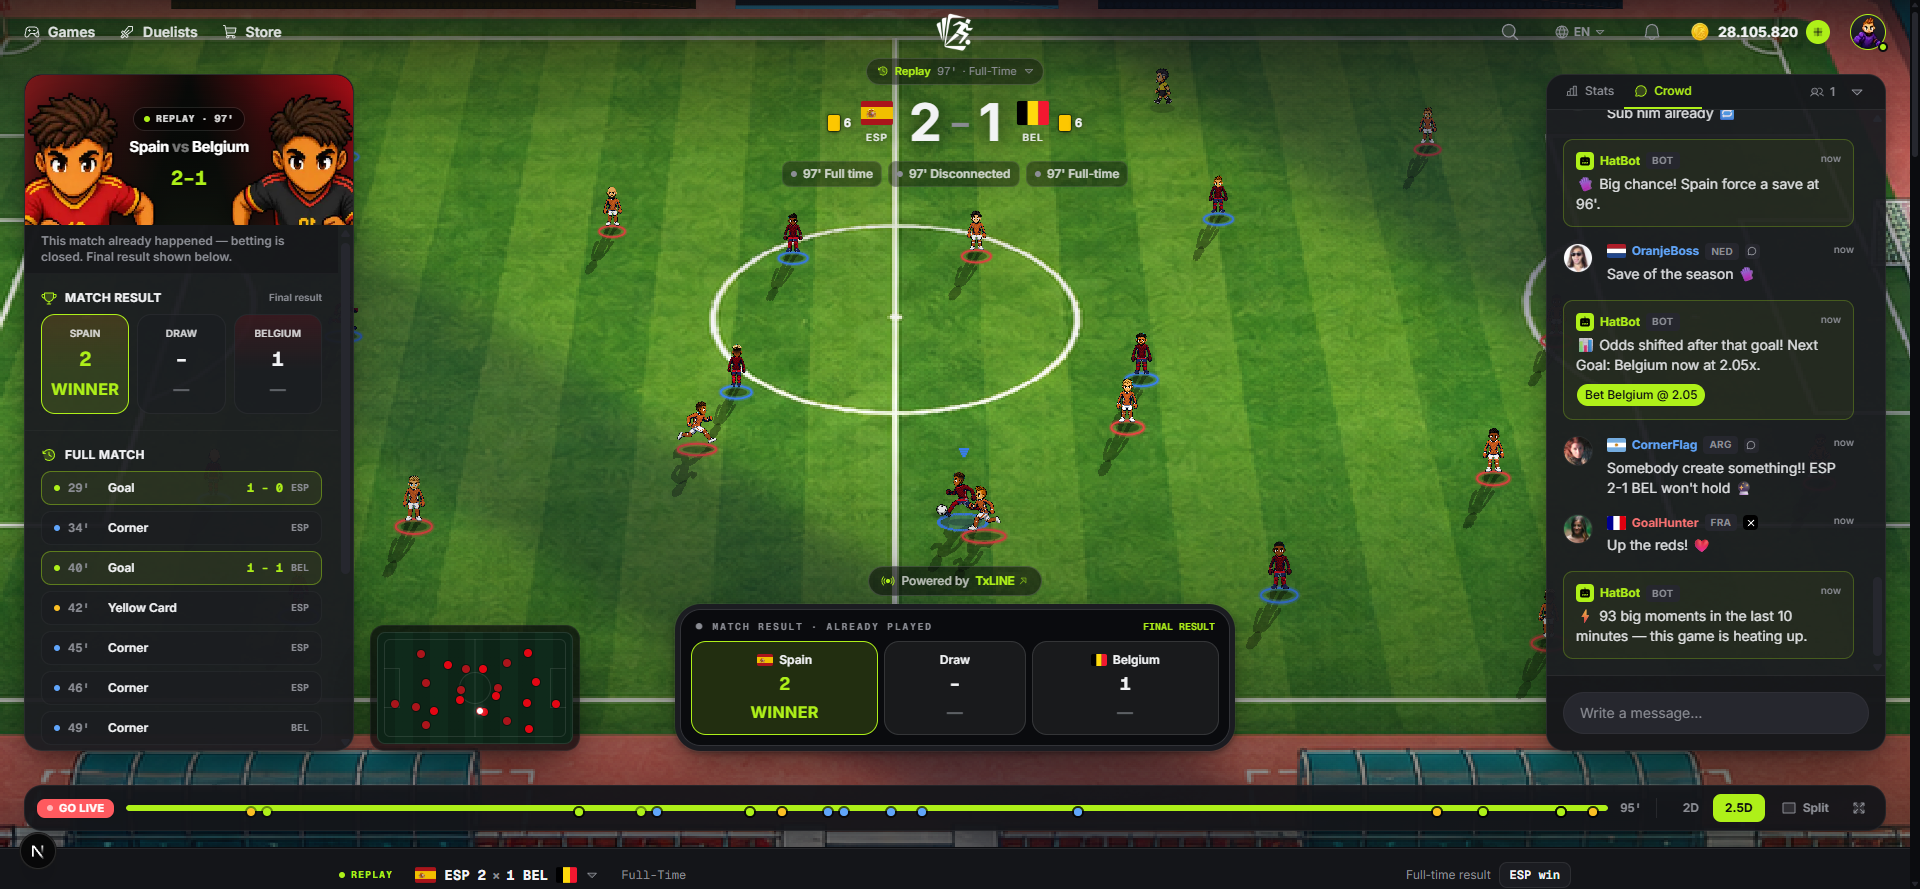
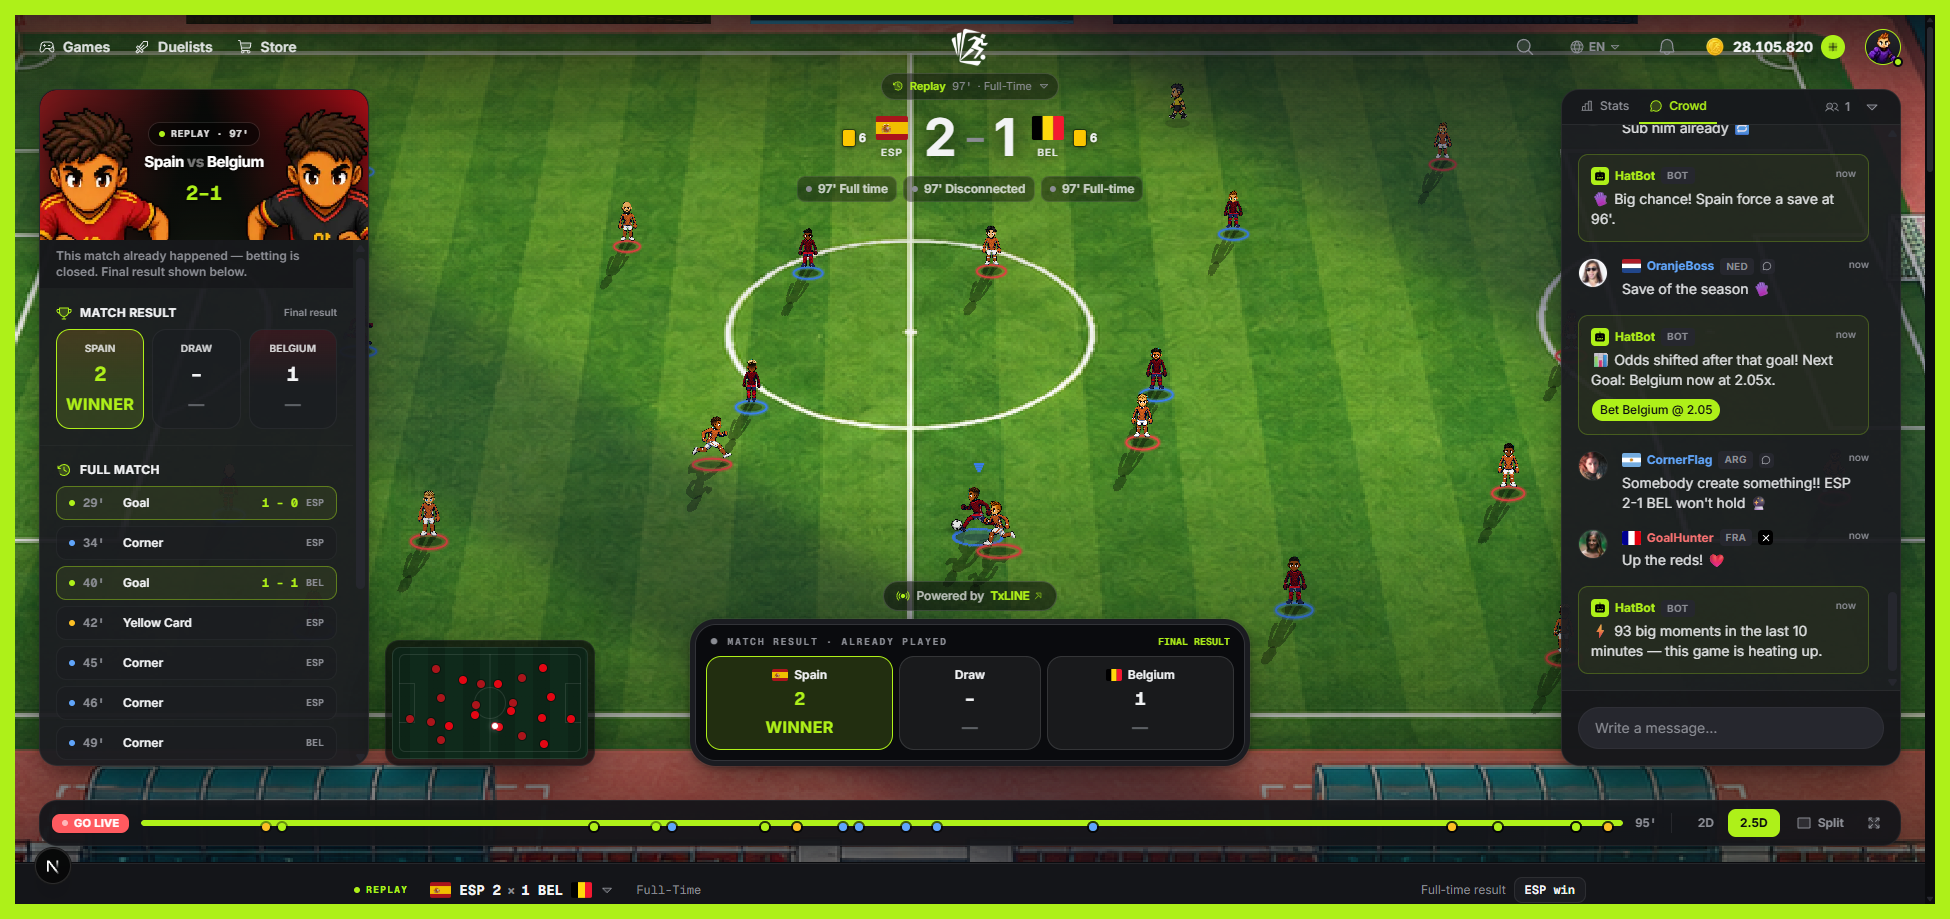
Add onboarding video files for cards and live mode

diff --git a/front/src/components/intro/intro-dialog.tsx b/front/src/components/intro/intro-dialog.tsx
@@ -1,10 +1,10 @@
 'use client';
 
-import { useState, type ReactNode } from 'react';
+import { useEffect, useState, type ReactNode } from 'react';
 
 import { Dialog, DialogContent, DialogTitle, DialogDescription } from '@/components/ui/dialog';
 import { Button } from '@/components/ui/button';
-import { ArrowRight, ArrowLeft } from '@/components/common/icons';
+import { ArrowRight, ArrowLeft, CircleNotch } from '@/components/common/icons';
 import { useT } from '@/i18n/i18n-provider';
 import { cn } from '@/lib/utils';
 import { IntroStep, INTRO_ORDER } from '@/enums/intro-step.enum';
@@ -18,24 +18,22 @@ type Key = DotPath<Dictionary>;
 
 /** Typed i18n keys per step so `useT()` stays type-checked (all 4 locales must define them). */
 const COPY: Record<IntroStep, { headline: Key; body: Key }> = {
-  [IntroStep.Welcome]: { headline: 'intro.steps.welcome.headline', body: 'intro.steps.welcome.body' },
   [IntroStep.Live]: { headline: 'intro.steps.live.headline', body: 'intro.steps.live.body' },
   [IntroStep.Fantasy]: { headline: 'intro.steps.fantasy.headline', body: 'intro.steps.fantasy.body' },
+  [IntroStep.Cards]: { headline: 'intro.steps.cards.headline', body: 'intro.steps.cards.body' },
 };
 
-/** Segmented progress bar — filled up to the active step. */
-function Progress({ index }: { index: number }) {
+/** Responsive segmented progress — each bar fills; the active one fills over the hold delay. */
+function Progress({ index, fill }: { index: number; fill: number }) {
   return (
-    <div className="flex items-center gap-1.5">
+    <div className="flex flex-1 items-center gap-2">
       {INTRO_ORDER.map((_, i) => (
-        <span
-          key={i}
-          className={cn(
-            'h-1 rounded-full transition-all duration-500 ease-soft',
-            i <= index ? 'bg-neon' : 'bg-surface-3',
-            i === index ? 'w-8' : 'w-5',
-          )}
-        />
+        <div key={i} className="h-1.5 flex-1 overflow-hidden rounded-full bg-surface-3">
+          <div
+            className="h-full rounded-full bg-neon"
+            style={{ width: `${(i < index ? 1 : i === index ? fill : 0) * 100}%`, transition: 'width 90ms linear' }}
+          />
+        </div>
       ))}
     </div>
   );
@@ -47,6 +45,7 @@ function Progress({ index }: { index: number }) {
  */
 function VideoStage({ content, fallback }: { content: IntroStepContent; fallback?: ReactNode }) {
   const [failed, setFailed] = useState(false);
+  const [ready, setReady] = useState(false);
   const Icon = content.icon;
 
   if (failed) {
@@ -65,18 +64,28 @@ function VideoStage({ content, fallback }: { content: IntroStepContent; fallback
   }
 
   return (
-    <video
-      key={content.videoSrc}
-      autoPlay
-      muted
-      loop
-      playsInline
-      poster={content.poster}
-      onError={() => setFailed(true)}
-      className="h-full w-full object-cover"
-    >
-      <source src={content.videoSrc} type="video/mp4" />
-    </video>
+    <>
+      <video
+        key={content.videoSrc}
+        autoPlay
+        muted
+        loop
+        playsInline
+        preload="auto"
+        poster={content.poster}
+        onError={() => setFailed(true)}
+        onLoadedData={() => setReady(true)}
+        onCanPlay={() => setReady(true)}
+        className="h-full w-full object-cover"
+      >
+        <source src={content.videoSrc} type="video/mp4" />
+      </video>
+      {!ready && (
+        <div className="absolute inset-0 grid place-items-center bg-surface-2">
+          <CircleNotch className="size-8 animate-spin text-neon" />
+        </div>
+      )}
+    </>
   );
 }
 
@@ -99,6 +108,39 @@ export function IntroDialog() {
   const copy = COPY[step];
   const Icon = content.icon;
 
+  // Hold gate: the active step's progress bar fills over HOLD_MS before "Next" unlocks — so the
+  // user actually watches each step. Steps already seen unlock instantly on revisit (Back → Next).
+  const HOLD_MS = 2000;
+  const [completed, setCompleted] = useState<Set<number>>(() => new Set());
+  const [fill, setFill] = useState(0);
+
+  useEffect(() => {
+    if (!open) return;
+    if (completed.has(index)) {
+      setFill(1);
+      return;
+    }
+    setFill(0);
+    const start = performance.now();
+    let raf = 0;
+    const tick = (now: number) => {
+      const t = Math.min(1, (now - start) / HOLD_MS);
+      setFill(t);
+      if (t >= 1) {
+        setCompleted((prev) => new Set(prev).add(index));
+        return;
+      }
+      raf = requestAnimationFrame(tick);
+    };
+    raf = requestAnimationFrame(tick);
+    return () => cancelAnimationFrame(raf);
+  }, [index, completed, open]);
+
+  const canAdvance = completed.has(index) || fill >= 1;
+
+  // Warm the next step's clip during the current step's hold, so advancing is instant.
+  const nextSrc = index < INTRO_ORDER.length - 1 ? INTRO_STEPS[index + 1]?.videoSrc : undefined;
+
   return (
     <Dialog open={open} onOpenChange={() => {}}>
       <DialogContent
@@ -110,15 +152,15 @@ export function IntroDialog() {
           <VideoStage
             key={step}
             content={content}
-            fallback={step === IntroStep.Fantasy ? <IntroFantasyAnimation /> : undefined}
+            fallback={step === IntroStep.Cards ? <IntroFantasyAnimation /> : undefined}
           />
         </div>
 
         {/* Content below — direct: progress, headline, one line of body, nav */}
         <div className="flex min-h-0 flex-1 flex-col gap-5 overflow-y-auto p-6 sm:p-7">
-          <div className="flex items-center justify-between">
-            <Progress index={index} />
-            <span className="text-micro font-bold tabular-nums text-muted-foreground">
+          <div className="flex items-center gap-3">
+            <Progress index={index} fill={fill} />
+            <span className="shrink-0 text-micro font-bold tabular-nums text-muted-foreground">
               {String(index + 1).padStart(2, '0')} / {String(INTRO_ORDER.length).padStart(2, '0')}
             </span>
           </div>
@@ -156,6 +198,7 @@ export function IntroDialog() {
               shape="pill"
               size="lg"
               onClick={isLast ? close : next}
+              disabled={!canAdvance}
               data-icon="inline-end"
               className="min-w-[9.5rem] font-semibold"
             >
@@ -164,6 +207,19 @@ export function IntroDialog() {
             </Button>
           </div>
         </div>
+
+        {nextSrc && (
+          <video
+            key={nextSrc}
+            muted
+            preload="auto"
+            playsInline
+            aria-hidden
+            className="pointer-events-none absolute h-px w-px opacity-0"
+          >
+            <source src={nextSrc} type="video/mp4" />
+          </video>
+        )}
       </DialogContent>
     </Dialog>
   );

diff --git a/front/src/components/intro/intro-content.ts b/front/src/components/intro/intro-content.ts
@@ -1,23 +1,24 @@
 import type { ComponentType } from 'react';
 
-import { Trophy, Lightning, Cards, type IconProps } from '@/components/common/icons';
+import { Broadcast, Cards, TrendUp, type IconProps } from '@/components/common/icons';
 import { IntroStep } from '@/enums/intro-step.enum';
 
 export interface IntroStepContent {
   step: IntroStep;
   icon: ComponentType<IconProps>;
-  /** Autoplayed clip for the step (user-provided; the dialog shows a placeholder until it exists). */
+  /** Autoplayed clip for the step. The dialog shows a placeholder/fallback until it exists. */
   videoSrc: string;
   /** Still shown before the clip plays / while it loads. */
   poster?: string;
 }
 
 /**
- * Per-step media. Drop the clips into `public/onboarding/` — the dialog degrades to a branded
- * placeholder when a file is missing, so the tour is usable before the videos are recorded.
+ * Per-step media (in `public/onboarding/`). Order: Live → Fantasy → Cards. The Cards step (real form
+ * from matches buffing/nerfing your cards) uses the Remotion-rendered `cards.mp4`, and falls back to
+ * the coded card animation if the file is missing.
  */
 export const INTRO_STEPS: IntroStepContent[] = [
-  { step: IntroStep.Welcome, icon: Trophy, videoSrc: '/onboarding/welcome.mp4', poster: '/onboarding/welcome-poster.webp' },
-  { step: IntroStep.Live, icon: Lightning, videoSrc: '/onboarding/live.mp4', poster: '/onboarding/live-poster.webp' },
-  { step: IntroStep.Fantasy, icon: Cards, videoSrc: '/onboarding/fantasy.mp4', poster: '/onboarding/fantasy-poster.webp' },
+  { step: IntroStep.Live, icon: Broadcast, videoSrc: '/onboarding/live-mode.mp4' },
+  { step: IntroStep.Fantasy, icon: Cards, videoSrc: '/onboarding/fantasy.mp4' },
+  { step: IntroStep.Cards, icon: TrendUp, videoSrc: '/onboarding/cards.mp4' },
 ];

diff --git a/front/src/enums/intro-step.enum.ts b/front/src/enums/intro-step.enum.ts
@@ -1,13 +1,12 @@
 /**
- * Steps of the judge-facing intro tour (opened by `?onboarding=true`). Distinct from the
- * post-login product onboarding (`onboarding-step.enum.ts`, Pack→Squad→Done) — this one is a
- * marketing walkthrough of what Hatrick is.
+ * Steps of the judge-facing intro tour (opened by `?onboarding=true` / first visit). Distinct from
+ * the post-login product onboarding (`onboarding-step.enum.ts`, Pack→Squad→Done).
  */
 export enum IntroStep {
-  Welcome = 'welcome',
   Live = 'live',
   Fantasy = 'fantasy',
+  Cards = 'cards',
 }
 
 /** Display order — drives the stepper and next/back navigation. */
-export const INTRO_ORDER = [IntroStep.Welcome, IntroStep.Live, IntroStep.Fantasy] as const;
+export const INTRO_ORDER = [IntroStep.Live, IntroStep.Fantasy, IntroStep.Cards] as const;

diff --git a/front/src/i18n/dictionaries/en/intro.ts b/front/src/i18n/dictionaries/en/intro.ts
@@ -20,5 +20,10 @@ export const intro = {
       body: 'Open Metaplex Core NFT card packs (provably-fair), build an XI, and face other fans 1v1. Real tournament data buffs and nerfs your cards after every round — form follows the feed.',
       caption: 'Play when no match is live. Your roster evolves with the World Cup.',
     },
+    cards: {
+      headline: 'Your cards live the tournament',
+      body: 'After every real match, TxLINE data buffs or nerfs your player cards — a big game levels a card up, a quiet one drops it. Your collection evolves with the World Cup.',
+      caption: 'Form follows the feed. Every result reshapes your squad.',
+    },
   },
 };

diff --git a/front/src/i18n/dictionaries/es/intro.ts b/front/src/i18n/dictionaries/es/intro.ts
@@ -20,5 +20,10 @@ export const intro = {
       body: 'Abre sobres de cartas NFT Metaplex Core (provably-fair), arma un XI y enfréntate a otros fans en 1v1. Los datos reales del torneo suben y bajan tus cartas tras cada ronda: la forma sigue al feed.',
       caption: 'Juega aunque no haya partido en vivo. Tu plantilla evoluciona con el Mundial.',
     },
+    cards: {
+      headline: 'Tus cartas viven el torneo',
+      body: 'Tras cada partido real, los datos de TxLINE suben o bajan tus cartas — un gran partido la sube de nivel, uno flojo la baja. Tu colección evoluciona con el Mundial.',
+      caption: 'La forma sigue al feed. Cada resultado rehace tu plantilla.',
+    },
   },
 };

diff --git a/front/src/i18n/dictionaries/pt-BR/intro.ts b/front/src/i18n/dictionaries/pt-BR/intro.ts
@@ -20,5 +20,10 @@ export const intro = {
       body: 'Abra packs de cartas NFT Metaplex Core (provably-fair), monte um XI e enfrente outros fãs em 1v1. Os dados reais do torneio dão buff e nerf nas suas cartas a cada rodada — a forma segue o feed.',
       caption: 'Jogue mesmo sem partida ao vivo. Seu elenco evolui com a Copa.',
     },
+    cards: {
+      headline: 'Suas cartas vivem o torneio',
+      body: 'Depois de cada partida real, os dados da TxLINE dão buff ou nerf nas suas cartas — um grande jogo faz a carta subir, um jogo apagado faz cair. Sua coleção evolui com a Copa.',
+      caption: 'A forma segue o feed. Cada resultado remodela seu time.',
+    },
   },
 };

diff --git a/front/src/i18n/dictionaries/ru/intro.ts b/front/src/i18n/dictionaries/ru/intro.ts
@@ -20,5 +20,10 @@ export const intro = {
       body: 'Открывайте паки NFT-карточек Metaplex Core (provably-fair), собирайте состав из 11 игроков и сражайтесь с другими фанатами 1×1. Реальные данные турнира усиливают и ослабляют ваши карточки после каждого раунда — форма следует за потоком.',
       caption: 'Играйте, даже когда нет живого матча. Ваш состав растёт вместе с турниром.',
     },
+    cards: {
+      headline: 'Карточки живут турниром',
+      body: 'После каждого реального матча данные TxLINE усиливают или ослабляют ваши карточки — яркая игра поднимает карту, слабая опускает. Коллекция растёт вместе с ЧМ.',
+      caption: 'Форма следует за потоком. Каждый результат меняет состав.',
+    },
   },
 };

diff --git a/front/src/store/intro.store.ts b/front/src/store/intro.store.ts
@@ -23,8 +23,8 @@ interface IntroStore {
  */
 export const useIntroStore = create<IntroStore>((set, get) => ({
   open: false,
-  step: IntroStep.Welcome,
-  openIntro: () => set({ open: true, step: IntroStep.Welcome }),
+  step: IntroStep.Live,
+  openIntro: () => set({ open: true, step: IntroStep.Live }),
   close: () => set({ open: false }),
   next: () => {
     const i = INTRO_ORDER.indexOf(get().step);

diff --git a/README.md b/README.md
@@ -142,6 +142,24 @@ The value is the same signed feed creating two products: Live makes the match wa
 
 <div id="features"></div>
 
+<!-- FEATURE: Live mode + betting -->
+<h3>📺 Live mode + in-match betting</h3>
+
+<p>Follow real matches as a <strong>2D real-time arena</strong> shaped by the TxLINE feed, with live odds and in-match bets settled by the <strong>authoritative</strong> result — optimistic <code>during</code> animation, confirmed <code>after</code> settlement, and 1X2 / Over-Under markets from the real odds feed.</p>
+
+<div align="center">
+  <img src="docs/media/live-mode.gif" alt="Live 2D arena with odds and in-match betting" width="60%">
+</div>
+
+<!-- FEATURE: Fantasy 1v1 duel -->
+<h3>⚔️ Fantasy 1v1 duels</h3>
+
+<p>Build your XI from the cards you own and stake in a <strong>simulated 1v1 arena duel</strong> rendered by the custom canvas engine. Card ratings and TxLINE-informed form seed the simulation — challenge a friend or get matched; the wager settles to the winner and the result is provable.</p>
+
+<div align="center">
+  <img src="docs/media/fantasy.gif" alt="Fantasy 1v1 duel — arena" width="60%">
+</div>
+
 <!-- FEATURE: Packs, cards & wallet (packs + store merged) -->
 <h3>🃏 Packs &amp; cards · 🛒 store &amp; wallet</h3>
 
@@ -150,7 +168,7 @@ The value is the same signed feed creating two products: Live makes the match wa
 <table>
   <tr>
     <td width="50%" valign="top"><img src="docs/media/feature-packs.png" alt="Opening a sticker pack" width="100%"></td>
-    <td width="50%" valign="top"><img src="docs/media/feature-store.png" alt="Team store and wallet" width="100%"></td>
+    <td width="50%" valign="top"><img src="docs/media/market.gif" alt="Team store &amp; market" width="100%"></td>
   </tr>
 </table>
 
@@ -159,24 +177,6 @@ The value is the same signed feed creating two products: Live makes the match wa
   <li>Cards feed the <strong>Fantasy 1v1</strong>, where real performance influences squad strength.</li>
   <li>Wager balance shows as a stablecoin ticker (devnet); betting is gated to wallet accounts, with compliance built in (18+, geo-block, self-exclusion).</li>
 </ul>
-
-<!-- FEATURE: Fantasy 1v1 duel -->
-<h3>⚔️ Fantasy 1v1 duels</h3>
-
-<p>Build your XI from the cards you own and stake in a <strong>simulated 1v1 arena duel</strong> rendered by the custom canvas engine. Card ratings and TxLINE-informed form seed the simulation — challenge a friend or get matched; the wager settles to the winner and the result is provable.</p>
-
-<div align="center">
-  <img src="docs/media/feature-fantasy-duel.jpeg" alt="Fantasy 1v1 duels — arena" width="72%">
-</div>
-
-<!-- FEATURE: Live mode + betting -->
-<h3>📺 Live mode + in-match betting</h3>
-
-<p>Follow real matches as a <strong>2D real-time arena</strong> shaped by the TxLINE feed, with live odds and in-match bets settled by the <strong>authoritative</strong> result — optimistic <code>during</code> animation, confirmed <code>after</code> settlement, and 1X2 / Over-Under markets from the real odds feed.</p>
-
-<div align="center">
-  <img src="docs/media/feature-live.jpeg" alt="Live 2D arena with odds" width="72%">
-</div>
 
 <!-- FEATURE: Live social — feed, chat, HatBot & rooms (crowd + rooms merged) -->
 <h3>🗣️ Live social — feed, chat, HatBot &amp; 👥 watch-together rooms</h3>